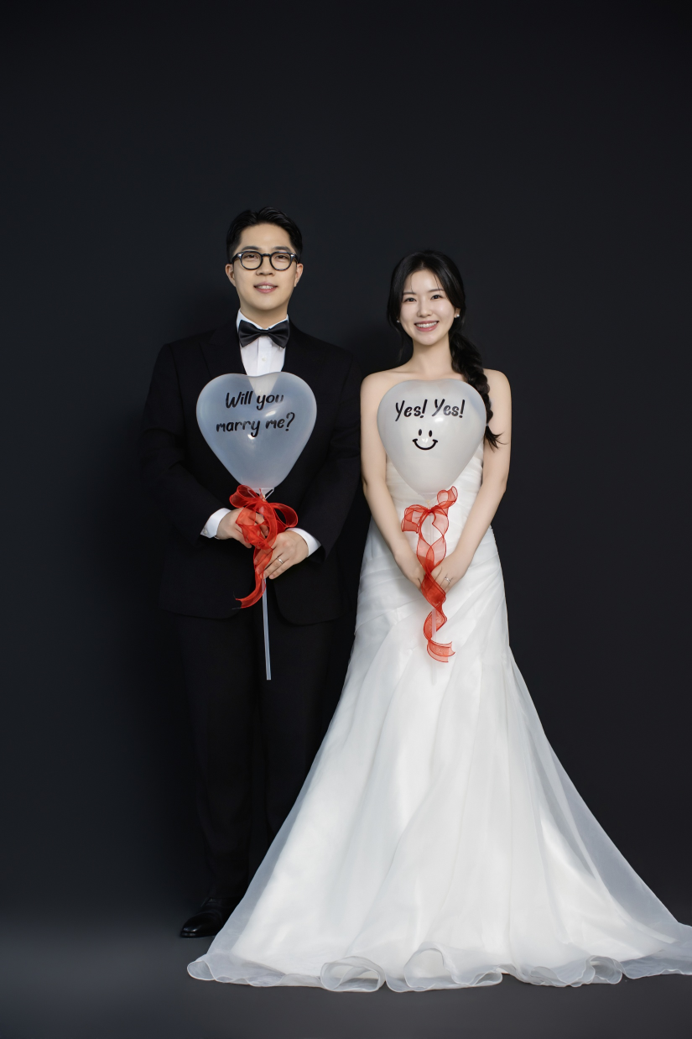
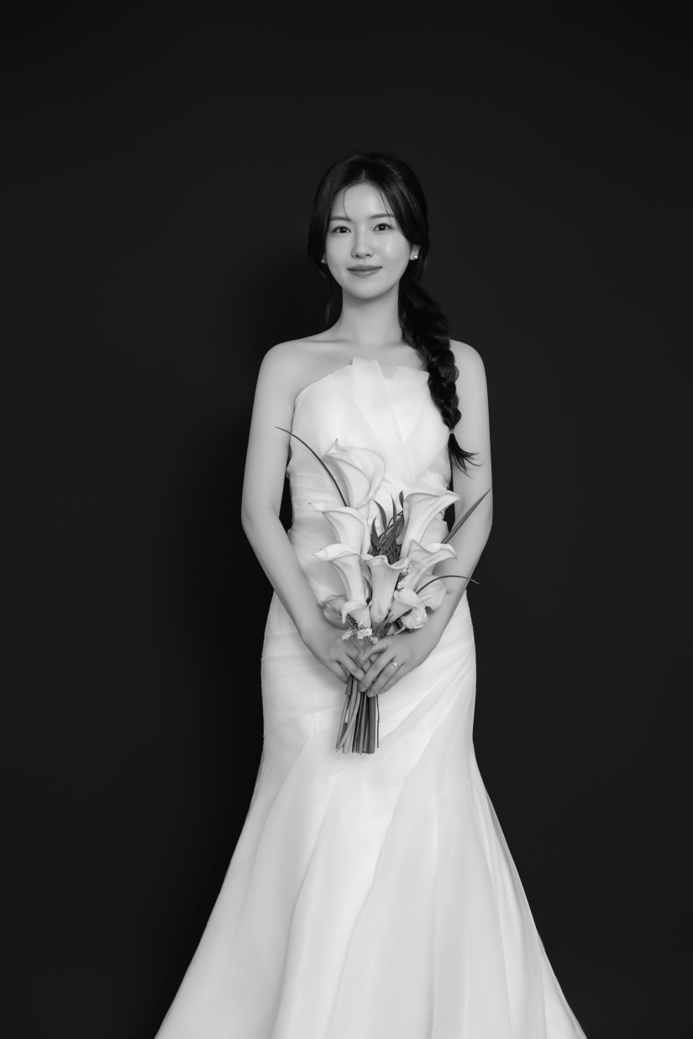
modified: images and cover size

diff --git a/src/component/cover/index.scss b/src/component/cover/index.scss
@@ -31,6 +31,21 @@
     }
   }
 
+  .cover {
+    .image-wrapper {
+      width: 100%;
+      height: 60vh; /* 모바일 화면 높이의 60%만큼 표시 (예: 400px, 50vh 등으로 조절 가능) */
+      overflow: hidden;
+      
+      img {
+        width: 100%;
+        height: 100%;
+        object-fit: cover; /* 비율을 유지하면서 여백 없이 꽉 채웁니다 */
+        /* object-fit: contain; 으로 변경하면 이미지가 잘리지 않고 원본 비율 전체가 표시됩니다 */
+      }
+    }
+  }
+
   .subtitle {
     font-size: 1.5rem;
     font-family: "Allura";
